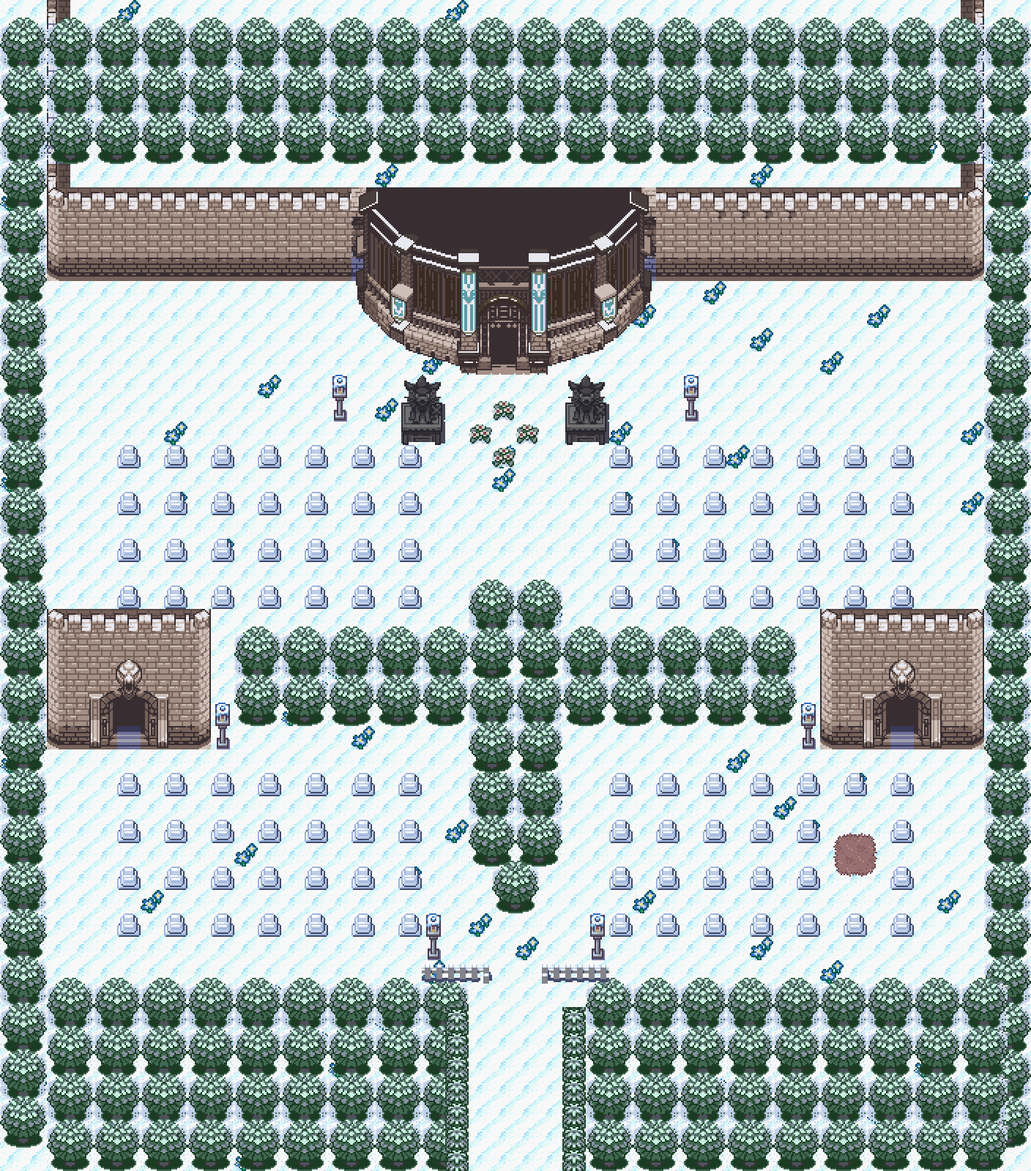
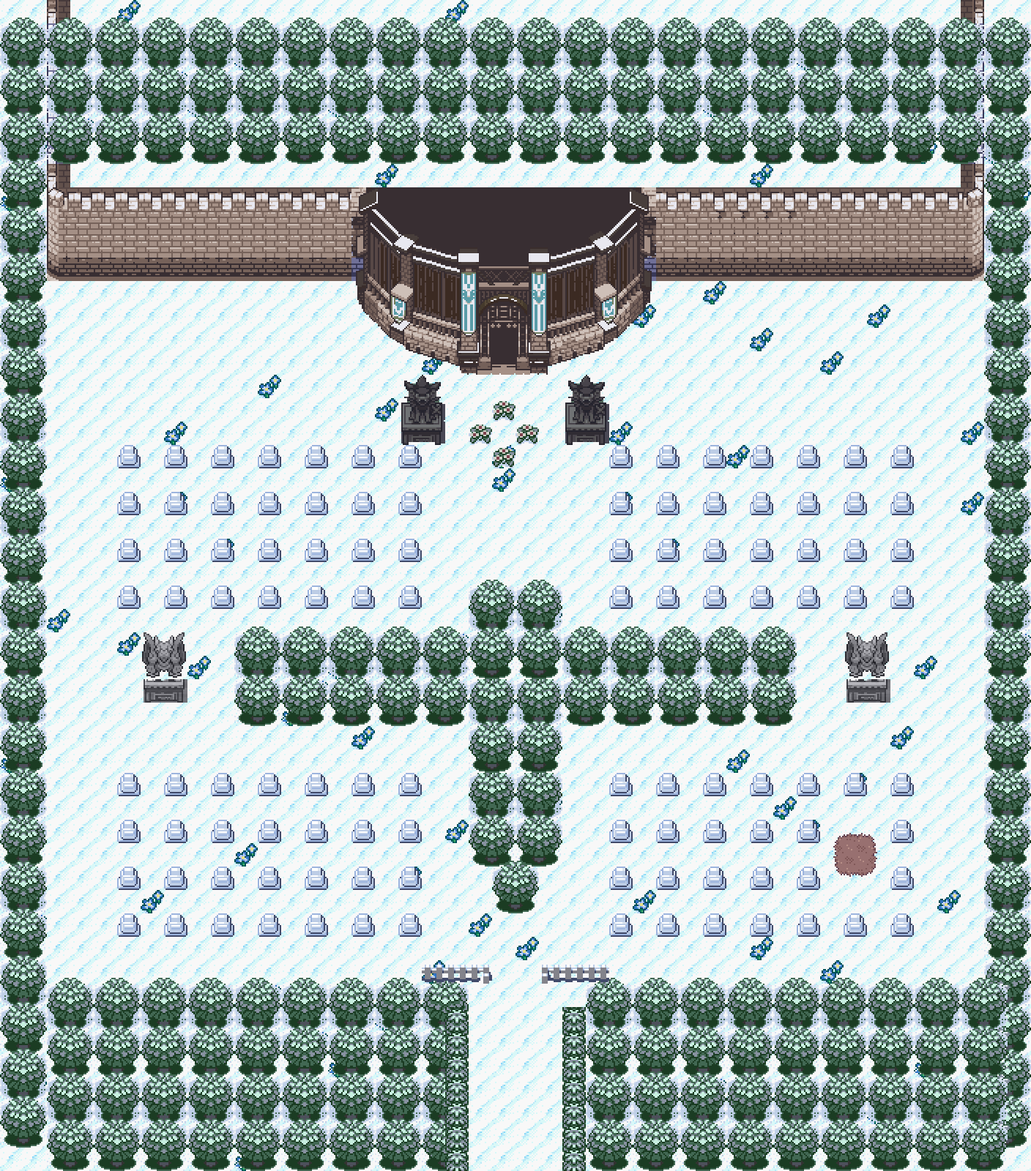
Necropolis grounds: stone Druddighuls for the mausoleums; no lamps
The user: replace the mausoleums with MonoMyth's Druddighul, turned to grey stone, either side of the tree cross; drop the lamps. Its overworld sprite (graphics 0x128) decoded by the game (tools/monomyth/mm_bigsprites.py: MonoMyth's big and 32x32 object graphics).

Claude-Session: https://claude.ai/code/session_01FHXnfqnedTHLf5QFbB3MCU

diff --git a/tools/art/necropolis/grounds_mock.py b/tools/art/necropolis/grounds_mock.py
@@ -69,6 +69,31 @@ def mausoleum(M, x0, y0):
         for dx in range(5): M.ground(x0 + 1 + dx, y0 + 2 + dy, ef(int(c[14 + dy, 28 + dx])), 'wall')
     M.gtag[y0 + 5, x0 + 3] = 'door'
 
+DRUDDIGHUL = os.path.join(HERE, '..', '..', '..', 'assets', 'monomyth_reference', 'pieces', 'druddighul_ow.png')
+def stone(img, x0=0, y0=0):
+    """A grey, weathered stone from head to toe: lightness onto a cold grey ramp, mottled."""
+    f = img.astype(float); l = v3._lum(f) / 255.0
+    lo, hi = np.array([40, 40, 46], float), np.array([206, 206, 212], float)
+    out = lo + (hi - lo) * np.clip((l - 0.08) / 0.8, 0, 1)[..., None]
+    hh, ww = l.shape
+    for y in range(hh):
+        for x in range(ww):
+            out[y, x] += (rnd('st', x0 + x, y0 + y) - 0.5) * 18
+    return np.clip(out, 0, 255).astype(np.uint8)
+
+def druddighul_statue(M, x0, y0):
+    """A stone Druddighul (user 2026-11-21): MonoMyth's Druddighul, the decrepit dragon of the Apocryphal
+    Bastion's ruined castle (its overworld sprite, graphics 0x128, 32x32), turned to grey stone head to toe,
+    on a plinth (Crown's statue plinth, greyed). 2 x 3."""
+    im = np.array(Image.open(DRUDDIGHUL).convert('RGBA'))
+    rgb, a = im[..., :3], im[..., 3] > 0
+    st = stone(rgb, x0 * 16, y0 * 16)
+    blk = [[(st[dy * 16:dy * 16 + 16, dx * 16:dx * 16 + 16], a[dy * 16:dy * 16 + 16, dx * 16:dx * 16 + 16])
+            for dx in range(2)] for dy in range(2)]
+    plinth = mm.cut('c33', 22, 10, 2, 1)
+    blk.append([(stone(c[0], x0 * 16 + 16 * i, y0 * 16 + 32), c[1]) if c else None for i, c in enumerate(plinth[0])])
+    M.place(blk, x0, y0, 'statue', check=False)
+
 def palisade(M, x0, y0):
     """The grand entrance: Crown's palisade gate (its walled capital, cells 43-55 x 5-14), charred: its timber
     burnt dark, its stone the fortress stone, its green lanterns a ghostly cold flame; the dark within is the way
@@ -126,15 +151,12 @@ def compose():
     # --- the winter roses at the head, between the gargoyles
     for x, y in ((21, 17), (20, 18), (22, 18), (21, 19)):
         M.place(dm([[0x4]], ancient), x, y, 'flowers', check=False)
-    # --- a mausoleum at each end of the cross
-    mausoleum(M, 2, 22 + O); mausoleum(M, 35, 22 + O)
+    # --- a stone Druddighul either side of the cross (user: in place of the mausoleums)
+    druddighul_statue(M, 6, 27); druddighul_statue(M, 36, 27)
     # --- the way in at the foot: the fence, the hedges, the way down to Mirroh
     M.place(dm([[0x149, 0x149, 0x13a, None, None, 0x138, 0x149, 0x149]]), 18, 37 + O, 'fence', check=False)
     for y in range(39 + O, H):
         M.place(dm([[0xc7]], ancient), 19, y, 'hedge', check=False); M.place(dm([[0xc7]], ancient), 24, y, 'hedge', check=False)
-    for x, y in ((14, 16), (29, 16), (18, 35 + O), (25, 35 + O), (9, 26 + O), (34, 26 + O)):
-        if M.free(x, y, 1, 2): mm.lamp(M, x, y)
-        else: print('no room for a lamp at', x, y)
     v3.stone_pass(M)
     for x in (20, 21, 22, 23): M.gtag[H - 1, x] = 'warp'
     return M

diff --git a/tools/monomyth/mm_bigsprites.py b/tools/monomyth/mm_bigsprites.py
@@ -1,0 +1,42 @@
+"""MonoMyth's 64x64 overworld sprites (user 2026-11-21: the giant Druddighul that attacks you on top of the
+Apocryphal Bastion, deep in the Webbed Woods, as stone statues in the Necropolis yard).
+
+Its bastion top (map header 0x86E034, region section 48 "Apocryphal Bastion") holds four 64x64 object
+graphics (ids 0x129, 0x175, 0x1DD, 0x1DE). Decoded by the game the way mm_paintings.py decodes the paintings:
+the player's images pointer swapped for the sprite's, a turn, its frame read from OBJ VRAM (64 tiles, row-major,
+8 a row).
+Usage: python3 -I tools/monomyth/mm_bigsprites.py MONOMYTH.gba OUTDIR [gid ...]
+"""
+import os, struct, sys
+import numpy as np
+from PIL import Image
+HERE = os.path.dirname(os.path.abspath(__file__)); sys.path.insert(0, HERE)
+import mm_overworld as M
+from mm_paintings import palette, INFO_TABLE
+
+def frame(g, base, images, k, w=64, h=64):
+    st = bytearray(base); st[M.SLOT:M.SLOT + 4] = struct.pack('<I', images + 8 * k); g.restore(bytes(st))
+    g.run(2, 'UP'); g.run(20); g.run(2, 'DOWN'); g.run(20)
+    n = (w // 8) * (h // 8); tw = w // 8
+    v = np.frombuffer(bytes(g.state())[M.VRAM_OBJ:M.VRAM_OBJ + 32 * n], np.uint8); px = np.zeros((h, w), np.uint8)
+    for t in range(n):
+        tb = v[t * 32:(t + 1) * 32]; tile = np.zeros((8, 8), np.uint8)
+        tile[:, 0::2] = (tb & 15).reshape(8, 4); tile[:, 1::2] = (tb >> 4).reshape(8, 4)
+        px[(t // tw) * 8:(t // tw) * 8 + 8, (t % tw) * 8:(t % tw) * 8 + 8] = tile
+    return px
+
+def main(rom, out, gids):
+    os.makedirs(out, exist_ok=True)
+    d = open(rom, 'rb').read(); g, base = M._gba(rom)
+    for gid in gids:
+        info = struct.unpack_from('<I', d, INFO_TABLE + 4 * gid)[0] - 0x08000000
+        tag = struct.unpack_from('<H', d, info + 2)[0]; images = struct.unpack_from('<I', d, info + 28)[0]
+        pal = palette(d, tag)
+        if pal is None: pal = np.array([(i * 16, i * 16, i * 16) for i in range(16)], np.uint8)
+        w, h = struct.unpack_from('<hh', d, info + 8)
+        px = frame(g, base, images, 0, w, h)
+        rgba = np.zeros((h, w, 4), np.uint8); rgba[..., :3] = pal[px]; rgba[..., 3] = (px != 0) * 255
+        Image.fromarray(rgba).save(os.path.join(out, 'big_%03x.png' % gid)); print(hex(gid), (px != 0).sum())
+
+if __name__ == '__main__':
+    main(sys.argv[1], sys.argv[2], [int(a, 16) for a in sys.argv[3:]] or [0x129, 0x175, 0x1DD, 0x1DE])

diff --git a/bible/20_chapter1_build.md b/bible/20_chapter1_build.md
@@ -183,7 +183,7 @@ Chapter 1 is the template: once its foundations (mechanics, maps, buildings, NPC
 - **Route 11 and Hollow Hill: layouts approved (user 2026-11-20).** **Route 11** (45x30, west from Pelluca's west road): Pelluca's pines and cobble road carry on at the east end (the seam to Pelluca uses Pelluca's own Cormoria tiles), farmland in the middle (a thatched farmhouse with a fenced yard, cabbage rows, a sown field, hay; fenced flower rows and tall grass south of the road), tan cliffs stepping down along the north, a cliff-flanked little cove on the south coast, and at the west end the road becomes a dirt track into cooler dark woods running on into Hollow Hill (the Eiscue scene on that track). Art: Crown's seaside farm village (3.1) and dark woods (3.25), Odyssey's farm (0.232); Pisces' Brumist Cliffs / Zotpyre Village (snowy in the ROM) and Odyssey's terraced hill as layout ideas. **Hollow Hill** (about 50x50; **its theme (approved by the user 2026-11-20, "perfect"):** Ghost Grey's Route 1 theme re-arranged as `MUS_DR_HOLLOW_HILL` by `tools/music/arrange_hollow_hill.py`: slowed from 124 to 64 bpm, on the soft pedal piano, no percussion, with a ghostly far-off voice echoing the tune (a sine tone first, heard as beeps: replaced) (wind was tried and taken out: it came across as static) in the bars where the song falls quiet; credit Ghost Grey): woods rising in three rings, each a cliff step up, to a central rock knoll; the path in from Route 11 climbs the rings by stairs to **the sealed tunnel door** at the knoll's foot; the north exit to Mirroh leaves from the outer ring (Glaive there); the Eiscue and the 1v2 on the outer ring; **very foggy, with a generally spooky, unsettling feeling** (user 2026-11-20). **The summit is late-game** (unlocked only with Valkeerin/Keerin in the party; the trip to the distant future and the Red fight happen there; 19_location_atlas.md). **Hollow Hill will be revisited and added to over the whole game** (many secrets, met in pieces): its layout and its tileset keep room for more (hidden burrow mouths placed now as scenery that can later open, the summit area behind the sealed door, spare palette and tile room in its tileset). **Revision (user 2026-11-20, after the first mock):** Route 11 is **about twice as long (about 90x30)**; the **Ivy River's thin western branch** (as on the illustrated region map, coming down from the north past the Necropolis just west of Pelluca) **crosses Route 11 near its Pelluca end and runs down to the beach and the sea; the road crosses it on a bridge**; the **grass shifts gradually** from Pelluca's light mint to the darker temperate greens of Hollow Hill's woods (shades reaching into each other in patches, as MonoMyth's and Crown's route boundaries do; tree kinds mixing before they change). Design rule: no tree or object ever cut, stacked into another or bleeding into buildings, cliffs or water (docs/chapter1_workflow.md). **Mock v2 (2026-11-20):** the river drops through a chasm in three falls (the middle one under the bridge), over the coastal cliff into a rock pool, and a stream bends west over the sand to the sea; the beach is a cove between cliff walls, split by the stream. **Steps down to the west beach (user 2026-11-20)** are cut into the coastal cliff just west of the bridge (stone stairs, two wide: Pelluca's own stair tiles, as in its sea wall): the beach holds **at least one trainer**, and more may go there later. The east beach (between the stream and Pelluca's pines) has no way down yet: **revisit later (user 2026-11-20).** **Built (2026-11-20):** `MAP_ROUTE11` (layout 90x40: five rows of woods, the chasm and the sea added above and below the approved picture, out of the player's reach, so the camera never shows past the edge), connected to Pelluca's west road (Route 11's road rows 19-21 = Pelluca's 28-30). Its own secondary tileset (`gTileset_Route11`, 7 palettes: grass, broadleaf woods, farm, cottage and hay, bridge, cliffs, river and pines on sage) under Pelluca's primary; Pelluca's own metatiles wherever a cell is one. Crowns of trees are walked behind; tall grass is tall grass (no encounter table yet: stage 5); the river in the chasm is solid, the stream and the sea need Surf. **Story gate (provisional):** stepping onto Pelluca's west edge is stopped with Osrid's line ("Cadmus told me to meet him at the church..." after the blast, a general line before it) until the shrine is awakened; stage 4 sets the real condition. **Music (user 2026-11-20):** MonoMyth's Route 15 theme (`MUS_DR_MM_ROUTE15`): a classic Pokémon route theme, reworked, a bright contrast before spooky Hollow Hill. Credit: MonoMyth (its music). **Pelluca Valley's main theme (user 2026-11-20):** Pokémon Crown's route theme (its song 292, `MUS_DR_CROWN_PELLUCA`), replacing Lilycove's, **in the piano version the user chose** (`MUS_DR_CROWN_PELLUCA_PIANO`: our pedal piano for its guitar, harp, clarinet and flute, standalone; the original as ported was removed, user: the remix is better). Credit: Pokémon Crown (its music). **Cold-open music (user 2026-11-20):** MonoMyth's "A Legend Unfolds" (`MUS_DR_LEGEND_UNFOLDS`; in MonoMyth it plays when Fabrizia's museum in North Edelweiss tells the legend of Athanto's Pokémon) plays from Tenebris's notes through Cadmus's letter until Osrid docks in Pelluca, replacing "Far Horizons". Credit: MonoMyth (its music). **Loops checked in the game (2026-11-20):** Pelluca's theme, Route 11's, the cold open's and Hollow Hill's each play through their loop point and come back in step with their loop start (every track loops at the same point). **Sound engine (2026-11-20):** 12 sampled voices instead of 5, as MonoMyth uses (the songs from MonoMyth and Crown play up to 10-12 notes at once; with 5 they cut each other off). **Hollow Hill mock v3 (user 2026-11-20: "quite good"):** `tools/art/hollowhill/hh_mock.py`, renders in `assets/hollowhill_reference/`. Art: Pokémon Odyssey's haunted forest (its maps 0.94/0.95/0.97: teal floor, dark pines, dead trees, stumps, logs, red mushrooms, dark tall grass, burrow hollows, grey stone terraces and stairs, the sealed blue door); credit Odyssey. Layout 66x64 (the hill about 40x37; the extra width is the east edge, where Route 11's olive ground and Crown woods darken and mix into the teal and the pines over about ten columns; Route 11's row = Hollow Hill's row - 24, its track on rows 43-45). Ring edges drawn by Odyssey's own terrace grammar, two bands per ring, three for the knoll. **The way through (user 2026-11-20):** the woods floor is closed into sections by trees running up to the cliffs (north-west corner, north, east, south), and ring 2 reaches out west and east to ring 1's edge, cutting ring 1 into a north and a south half, so **the player can never go round the hill: from Route 11 up ring 1, up ring 2 (the sealed door, or over), down the north side to the north woods and the exit to Mirroh.** Eight stairs, four per ring (south faces, and north edges with the steps drawn down-facing) link the sections: the clearing (Eiscue, the 1v2) is its own section with its own stairs; the north-east woods are a dead-end pocket (room for an item or a secret). The mock checks this each run: with ring 2's stairs closed the north is out of reach; with ring 1's closed the woods sections do not join. The void pits with red eyes were dropped (they read as ponds). **Later (user 2026-11-20):** Hollow Hill keeps being worked on through the game, e.g. **a cool ruined structure on the top**, since it truly is an ancient and arguably cursed place. **Colours (user 2026-11-20):** the woods and their floor an **off-white, creepy bone** (Odyssey's pines, floor and tall grass recoloured one for one), the cliffs a **sinister stone, dark and light mixed** (near-black violet shade, charcoal faces, bone-pale lit edges), so Hollow Hill stands out even in the fog; trunks, red mushrooms and the sealed door's cold blue kept. At the east edge Route 11's green woods pale toward bone over three columns of trees (`hh_mock.py` BONE, tint). **Built (2026-11-20):** `MAP_HOLLOW_HILL` (layout 66x64; `tools/art/hollowhill/build_hollowhill.py` from `hh_mock.py`, mock v8), connected to Route 11's west edge (Hollow Hill's row = Route 11's + 24; the track on rows 43-45). **The seam:** Hollow Hill's columns 58-65 are Route 11's own columns 1-8 (the same blocks; its woods' pattern carried up above Route 11's top), and its tileset (`gTileset_HollowHill`, under Pelluca's primary) keeps Route 11's 24 seam metatiles, their 69 tiles and its two palettes (grass, broadleaf woods: slots 6-7) at the same ids, numbers and slots, so each map draws the other's edge right. Its own: 208 metatiles, 437 tiles, 5 palettes (floor, pines and wood, stone and blood, Crown's woods paled, the door and mushrooms). **The tiles are nearly full** (4 of 512 spare): the webs and the blood are built as repeating pieces (a few drip and blot patterns, one garland per spacing of trees) to fit; later additions (the ruins on top, burrows that open) are best as their own maps behind the sealed door and the burrows, or by trimming the webs/the olive-to-bone shades. Cliffs solid, stairs walkable, tree crowns walked behind, webs drawn over the player, the dark tufts are tall grass (no encounter table yet: stage 5). Weather `WEATHER_FOG_HORIZONTAL`, **thinned for Hollow Hill** (src/field_weather_effect.c: 6/16 over 13/16 instead of 12/16 over 8/16, so the bone woods are not washed out; other foggy maps unchanged); music `MUS_DR_HOLLOW_HILL`; `MAPSEC_DR_HOLLOW_HILL`. The way north runs off the top edge (the Mirroh area is next; no connection yet). Walked in the emulator from Route 11 up both rings, to the door, down the north side to the way north, and to the clearing. **The Hollow Hill guardian (user 2026-11-20; a special quest later in the game):** the personification of the haunted energy that has gathered round Hollow Hill for many years, so strong it **reanimated the dead body of an Araquanid as its vessel**: a custom **undead Araquanid**, a blood bubble for its water bubble, a skull-like face, skeletal limbs and body. Still **Water/Bug**, ability **Water Bubble**; about **level 65**; exceptionally strong: starts the fight at **+1 Attack, Defense, Special Defense and Speed**. It holds the **Reaver's Fang**, which the player gets by defeating it. **Reaver's Fang (held item; user 2026-11-20):** (1) the holder heals **25% of the physical or special damage it deals**; (2) when an enemy's physical or special attack damages the holder, the holder **heals 25% of that damage and the same amount is dealt back to the attacker**; (3) recoil the holder inflicts on itself is lifestolen at 25% too (user, first description; no attacker to hit back). **One of the strongest held items in the game**, which is why it **cannot be had until after midgame** (the guardian's quest is post-midgame). The blood webs across Hollow Hill are signs of its power over the woods. **Not catchable** (user 2026-11-20): it is only cursed energy possessing and working the corpse of a dead Pokémon. **Art:** the user will help make the base art for the assistant to modify further, and may let the assistant try the design when the time comes. OPEN: a new form with its own stats or Araquanid with the boosts; the quest. **Unsettling throughout (user 2026-11-20):** the pines' bone shades go to a **sinister grey** in their depths; **blood-like stains** run down the cliffs from their tops and soak into the stone in blots (more round the sealed door); **Blood-red webbing in MonoMyth's Webbed Woods style, hung across the trees** (user 2026-11-20: a web on each tree looked strange; hang them across more of the trees, more naturally; webs on actual groups of trees, never in the open): sheets of web sag from tree to tree along the woods' edges (the north and south treelines, garlands from each crown to the next at about the same height, two or three threads deep, laced by MonoMyth's zig-zags, torn threads trailing), bulge out from tree to tree down the west woods' side and the trees closing the way east, link pines standing near each other or near a woods' edge (the pair on ring 1), MonoMyth's big sagging net across the narrow way north, small round webs only in the dead tree's branches and in the V between the trees closing the way south. Drawn a pixel at a time in the webbing's two colours (MonoMyth's, made old-blood red); the net is MonoMyth's (`web_net.png`, 0x886DD5C). Credit MonoMyth. **The blood webs mean something (user 2026-11-20):** they are signs of the **Hollow Hill guardian's** power over the woods (below).
 - **Mirroh (user 2026-11-20/21; zone plan v2, `tools/art/mirroh/layout_sketch.py`, `assets/mirroh_reference/`).** Where Crown's medieval architecture really starts. **A mix of a Crown village and MonoMyth's Fort Elderflower** (user): a **walled city climbing the slope** of the massif in three terraces (Elderflower's crenellated terrace walls that jog with the slope, stone stairs staggered so the way winds up), Crown's timber and thatch cottages with fenced gardens below. **Light snow in the lower town, deeper uphill. Gothic, gloomy and wintry:** roofs recoloured to dark slate, iron lanterns, Crown's dragon statues darkened to gargoyles, banners in House Langerin's colours, a graveyard. **Ghost Grey's Opal Village** (user: loves its reflecting ice; study its landscape and indoor/outdoor tiles): sheets of **reflecting ice** sunk in brick rims (one in the square, one in the lower town), **dark icy streets with sparkles**, snowbanks held by brick retaining walls; its houses and museum halls for the interiors (greyscale: to be coloured). Zones: outside the **south gate** Hollow Hill's bone woods carry on (the seam), thinning to snowy pines; **lower town** (cottages, gardens, ice sheet); **middle terrace**, the square (the **Tavern**, like Pelluca's, **recoloured to the dark slate look**, user; a market hall, stalls, the ice sheet); **upper terrace** (deep snow): a gothic chapel and its graveyard (the seed of DM's Mirroh Base Camp graveyard), **House Langerin's town house** (user: yes). **Two ways out north (user):** a **north-west path** further north out of town, and a **separate north-east path to the Necropolis** (its own map uphill). **Gatehouses (user 2026-11-21):** Mirroh is guarded: people may not come and go as they please. **Two walk-through gatehouse buildings with guards** (enter one side, pass the guards inside, leave by the other; interior maps): the **south gatehouse** between Hollow Hill and the city proper, and the **north-west gatehouse** on the route toward the mountain, the Templar HQ and beyond. The **north-east path to the Necropolis is open** (no gate; the Necropolis keeps its own entrance). **Plan approved by the user ("basically perfect").** **Gates, decided (user 2026-11-21):** the **south and north-west gatehouses are roofed gatehouse buildings** in the style of Ghost Grey's and Crown's walk-through gates (slate roof behind the crenels, a stone front with banners, a portcullis door between lanterns, round towers either side; Crown's castle gate restoned in Elderflower's stone). The south one's far door, on the city side, is **a short flight of steps up from the gatehouse** (the city is uphill; user: "yes"). Their **hallway maps** follow North Edelweiss's gate hallway (MonoMyth): a dark doorway at the top, a crimson runner, guard desks facing each other, benches and plants, the mat at the foot, in Mirroh's cold stone (`tools/art/mirroh/gate_hall.py`). **The north-east way to the Necropolis is a standalone skull gate** (user's idea: Elderflower's skull keep door, "rebuilt as a standalone gate with a new top"): the skull arch under a crenellated walk between two round towers capped with the gothic spires of Crown's cathedral; no guards; you walk through the dark arch onto the Necropolis map. **Revised (user 2026-11-21):** both gatehouses take **the towered style** (option B: three-wide round towers a row taller than the gate, capped with the Necropolis gate's spires; no steps and no mat (a mat against the roof read wrong): the south one's far door is where the city's cobbled lane runs into its back), and **between the towers the real roof of Crown's cathedral** (its metal-sheet roof as it runs back between the cathedral's spired towers, cut out and widened at mid-slope), **in copper**, over Crown's gate core (pillar, lantern, portcullis, lantern, pillar, two banners); 14 wide (user: no roof at all looked strange; a drawn roof did not look like a natural part of the gate). **No way round (user 2026-11-21: players must not sneak past Mirroh):** the three columns either side of the walls, from the top of the map to the city wall's foot, are closed by the massif's pinewood and rock (big and small pines, snow-buried rocks, rock ridges; every cell solid), and the **city's north wall** runs along the top from wall to wall, broken only by the north-west gatehouse and the Necropolis gate. The mock checks it: from Hollow Hill nothing is reachable past the south gatehouse, and from inside the city the top edge is reachable only through the gates. **Snow and stone (user 2026-11-21: more fluid and natural, not big blocks of snow):** on the paved terraces the snow lies in ragged drifts of every size (smooth noise at two scales, a little deeper toward the walls), swept clear along the ways people walk (stairs, doors, gates), and the paving round the drifts is **dusted** (a few pieces of paving with snow specks, thicker next to the drifts, thinning out), so the drifts fade into the stone; deeper on the sacred terrace. The ice sits in rounded, uneven pools, the snow drifting straight onto it; the lower town's cobbled lanes wander and vary in width. **The fortress stone (user 2026-11-21):** every wall, tower, parapet, stair and both gatehouses (and the Necropolis gate) in **one copper-shaded stone**, a cold grey warmed toward copper, to go with the copper roofs (`cstone`, mapped by lightness from Elderflower's stone; the snow on the crenels and the dark slate paving kept); the gatehouse roof runs in behind its towers (no gap at its sides). **Copper is Mirroh's main colour and House Langerin's crest's** (user): used as the contrast to the dark slate and the snow wherever it makes sense: the gatehouse roofs, the banners (Crown's purple ones in copper), the chapel's roof (Crown's verdigris roof in copper, a little green left in its seams), House Langerin's town house roof, the hallway runners and mats (copper rather than red: red is generic). **Mock v3 (2026-11-21, `tools/art/mirroh/mirroh_v3.py`):** the city as Elderflower-style terraces drawn from a level map (each terrace narrower than the one below, its own crenellated front wall with round-tower ends, parapets down its sides, its paving shaded under them), snow lying on the paving in drifts, the reflecting ice set in snowy yards (the snow drifting onto the ice, no rim), cobbled lanes in the lower town; every borrowed building cut out of its source cleanly (only the source's true ground removed).
 - **Chapter 1 asset references (user 2026-11-19), for later: nothing built yet.** **Permissions and credits (user 2026-11-19):** Pokémon Crown (Blah and the Crown team) and Pokémon Ghost Grey Version EX (JoeyZeed) are used with permission; credit them in the notes alongside MonoMyth, Pokémon Odyssey and the Pokémon Rejuvenation team. Sources earmarked while surveying Pokémon Crown (FireRed hack by Blah and the Crown team; `tools/crown/README.md`, renders in `assets/crown_reference/`), MonoMyth, Dreamstone Mysteries and Rejuvenation:
-  - **Mirroh Necropolis, plan (user 2026-11-21):** **the grounds and two catacomb floors.** The grounds (its own map, reached through Mirroh's skull gate): a walled cemetery on the slope above the city, the grand entrance down into the catacombs at its head. **Floor 1: Dale Langerin. Floor 2: Gram Langerin.** Then **the Trial: the frozen underground lake of the dead** (user): an ice-sliding puzzle in the manner of **Ghost Grey's Heater Forest** (user: sliding ice, not cracking ice; step onto the ice and you slide until a boulder, a wall or a patch of snow or stone stops you; `tools/ghostgrey/README.md`) across the lake to **light four spectral bonfires**; **each bonfire is guarded by a necromancer trainer**, so the player fights **four trainers** at the bonfires; with all four lit **the way to Kimaris opens**, and he waits in the Trial chamber beyond. The Distortion gate's room lies sealed deeper still (late game). **The grounds (user 2026-11-21): an expanded version of Dreamstone Mysteries' graveyard in modern Mirroh** (LAYOUT_MIRROH_BASE_CAMP_GRAVEYARD) with the rest of the plan: its round snowy trees closing it in, the great cross of trees in its middle, headstones in rows in its four quarters, winter roses at its head, an open grave, the way in at its foot between hedges and a fence (from Mirroh's skull gate); added: the grand entrance (Crown's palisade gate, charred, its lanterns a cold ghost flame, the dark within it the way down) standing out from a fortress wall of the copper-shaded stone, gargoyles before it, a Langerin mausoleum (Elderflower's skull door) at each end of the cross, lamps. Mock v1: `tools/art/necropolis/grounds_mock.py`, 44x50, renders in `assets/necropolis_reference/`. **Surface look (assumed, user did not choose; to confirm):** Mirroh's family but darker and older: deeper snow, the same copper-shaded stone walls aged darker, dead trees and black iron, copper roofs gone green, fog.
+  - **Mirroh Necropolis, plan (user 2026-11-21):** **the grounds and two catacomb floors.** The grounds (its own map, reached through Mirroh's skull gate): a walled cemetery on the slope above the city, the grand entrance down into the catacombs at its head. **Floor 1: Dale Langerin. Floor 2: Gram Langerin.** Then **the Trial: the frozen underground lake of the dead** (user): an ice-sliding puzzle in the manner of **Ghost Grey's Heater Forest** (user: sliding ice, not cracking ice; step onto the ice and you slide until a boulder, a wall or a patch of snow or stone stops you; `tools/ghostgrey/README.md`) across the lake to **light four spectral bonfires**; **each bonfire is guarded by a necromancer trainer**, so the player fights **four trainers** at the bonfires; with all four lit **the way to Kimaris opens**, and he waits in the Trial chamber beyond. The Distortion gate's room lies sealed deeper still (late game). **The grounds (user 2026-11-21): an expanded version of Dreamstone Mysteries' graveyard in modern Mirroh** (LAYOUT_MIRROH_BASE_CAMP_GRAVEYARD) with the rest of the plan: its round snowy trees closing it in, the great cross of trees in its middle, headstones in rows in its four quarters, winter roses at its head, an open grave, the way in at its foot between hedges and a fence (from Mirroh's skull gate); added: the grand entrance (Crown's palisade gate, charred, its lanterns a cold ghost flame, the dark within it the way down) standing out from a fortress wall of the copper-shaded stone, gargoyles before it, **a stone Druddighul at each end of the cross** (user 2026-11-21, in place of the mausoleums: MonoMyth's Druddighul, Druddigon's Ghost/Dragon evolution, the decrepit dragon that attacks you on top of the ruined castle of the Apocryphal Bastion deep in the Webbed Woods; its overworld sprite, MonoMyth graphics 0x128, 32x32, `tools/monomyth/mm_bigsprites.py`, `assets/monomyth_reference/pieces/druddighul_ow.png`, turned to grey stone head to toe on a plinth; credit MonoMyth); no lamps (user). Mock v1: `tools/art/necropolis/grounds_mock.py`, 44x50, renders in `assets/necropolis_reference/`. **Surface look (assumed, user did not choose; to confirm):** Mirroh's family but darker and older: deeper snow, the same copper-shaded stone walls aged darker, dead trees and black iron, copper roofs gone green, fog.
   - **Mirroh Necropolis entrance:** Crown's curved palisade gate (walled capital, map group 3 #3, cells x43-54 y5-13), recoloured sinister (slate stone, charred wood, tarnished bronze arch, spectral banners) with graveyard/gothic ornament, as the grand entrance down into the catacombs (user). Catacomb levels: Crown's underground stone halls (group 6 #8: tiered walls, cobwebs, pillars, plank bridges over a chasm, a sealed chamber) and its sewer (group 7 #11), recoloured. Graves: DM's Mirroh Base Camp Graveyard headstones (metatile 0x3A5 in LAYOUT_MIRROH_BASE_CAMP_GRAVEYARD) and MonoMyth Speedwell's wooden cross markers (metatiles 0x39, 0xA6); dead stumps from MonoMyth's Haunted Swamp; Crown's cobwebs; Rejuvenation's iron candle stands with ghost-coloured flames; Crown's dragon statues darkened into gargoyles. **Underground catacombs (user, primary reference):** Pokémon Ghost Grey Version EX's Lavender Town catacombs (by JoeyZeed; `tools/ghostgrey/README.md`, renders in `assets/ghostgrey_reference/`): six chambers with grave niches, demon-face reliefs and chasm crossings, ending in a pillared chamber with a sealed gate (the Distortion gate's room). They are greyscale and need a proper palette.
   - **Templar Headquarters ("Templar Citadel", Mt. Mirroh):** Crown's gothic cathedral on its moat island with timber chalets (group 3 #2), with an alpine/snow treatment and perhaps an outer wall.
   - **Academy:** MonoMyth's Ironbark Cabin (0x886B35C main hall + rooms) cleaned up (user: it looks dingy now): no boarded windows, moss or broken doors. **For the rooms (user 2026-11-19): MonoMyth's clown academy in Cascade City** (0x8868EF4 / 0x886AEE0): two classrooms (green chalkboard with writing, curtained windows, rows of desks), a music room (piano, music stand), a lounge, a lobby counter; modern tiled floors, so its furniture would be lifted onto our wood. Crown's classroom (group 5 #2: blackboard, desk rows, red runner) for the classroom.

diff --git a/assets/monomyth_reference/README.md b/assets/monomyth_reference/README.md
@@ -18,3 +18,4 @@ MonoMyth (Pokémon MonoMyth) reference renders and cut pieces.
   loose stones from Mt. Thunder (map 0x886D608, cells (29,28), (39,34), (42,33), (32,30), (30,32)), cut against its icy
   floor. Used (turned grey) to choke the cell doorway in the church after Eden's blast (tools/art/templar/blast_mock.py).
 - pieces/webtree_fan_l.png, webtree_drape.png, webtree_fan_r.png, webtree_join.png, webtree_strand.png: the web layer of the Webbed Woods' webbed trees (0x886DD40: the left fan 236/21e, the drape under the crown 234/22c, the right fan 237/21f, the fans two trees share 235 233 / 21d 21b, the strand across a gap 279 277 275 26e 26f / 27a 278 272 273 274), keyed out by the two web colours. Hollow Hill's blood-red webbing (user).
+- pieces/druddighul_ow.png: Druddighul's overworld sprite (32x32, graphics id 0x128, palette tag 0x124B), the decrepit dragon of the Apocryphal Bastion's ruined castle (its top map, header 0x86E034), decoded by the game (tools/monomyth/mm_bigsprites.py). Turned to stone for the Necropolis yard (user).
